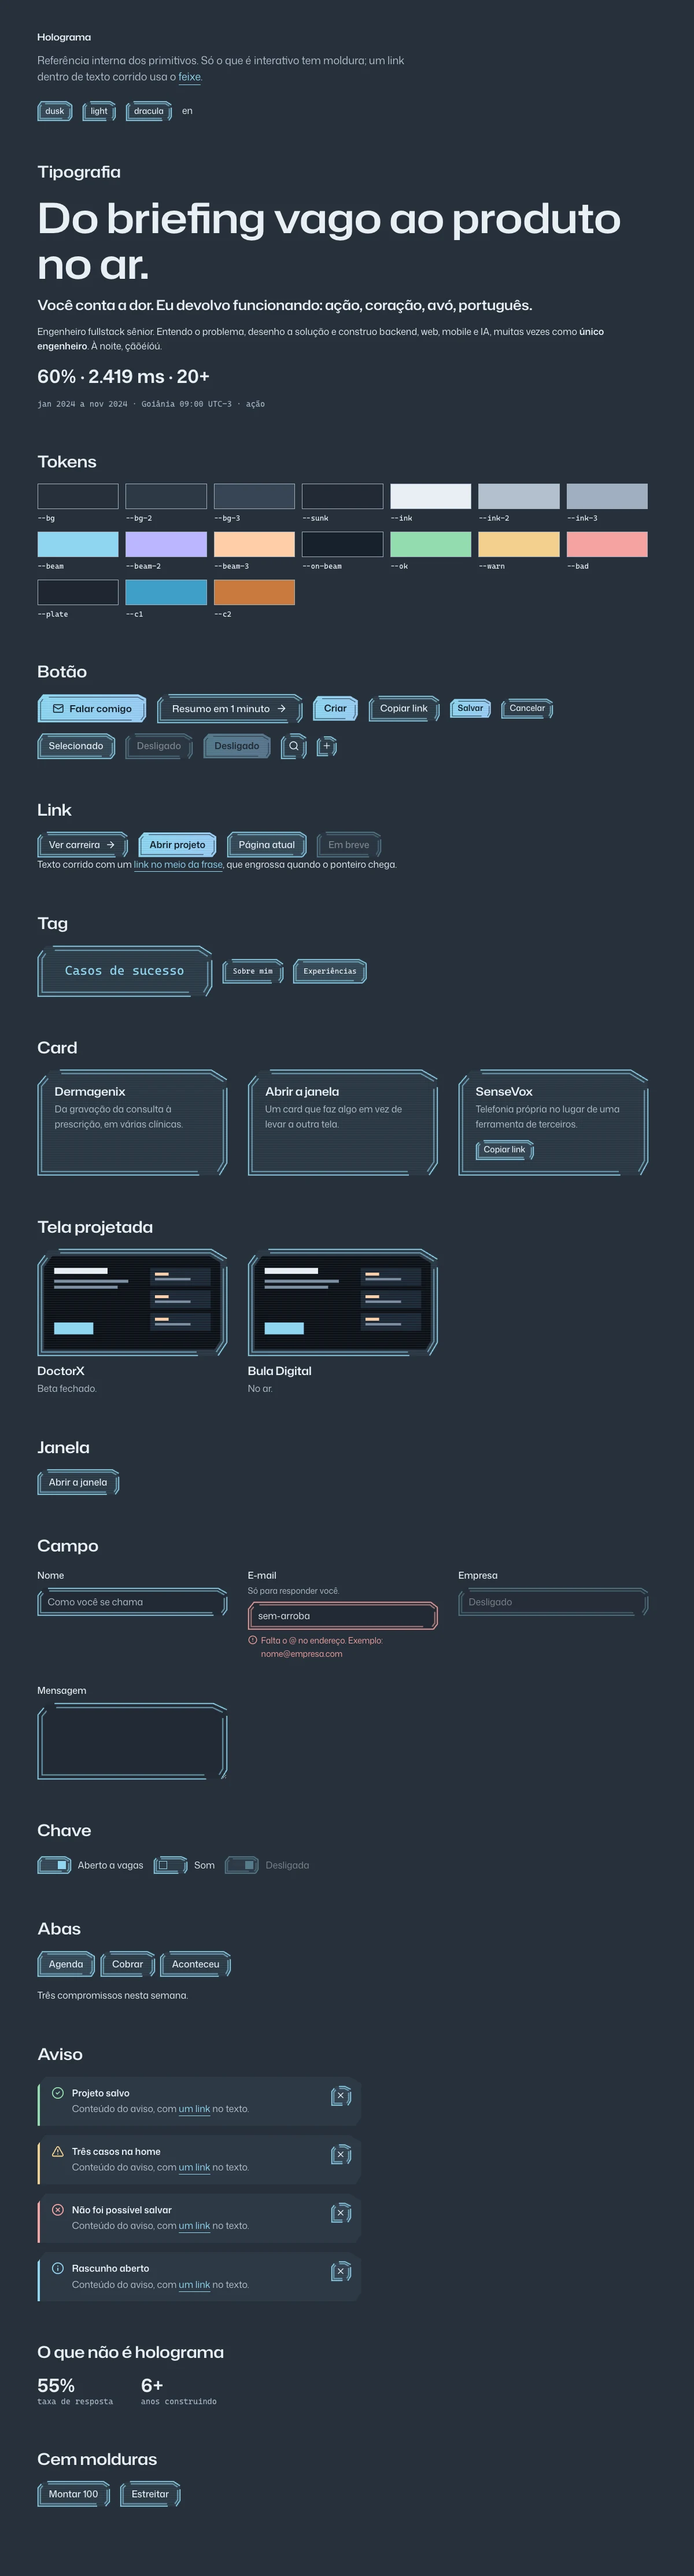
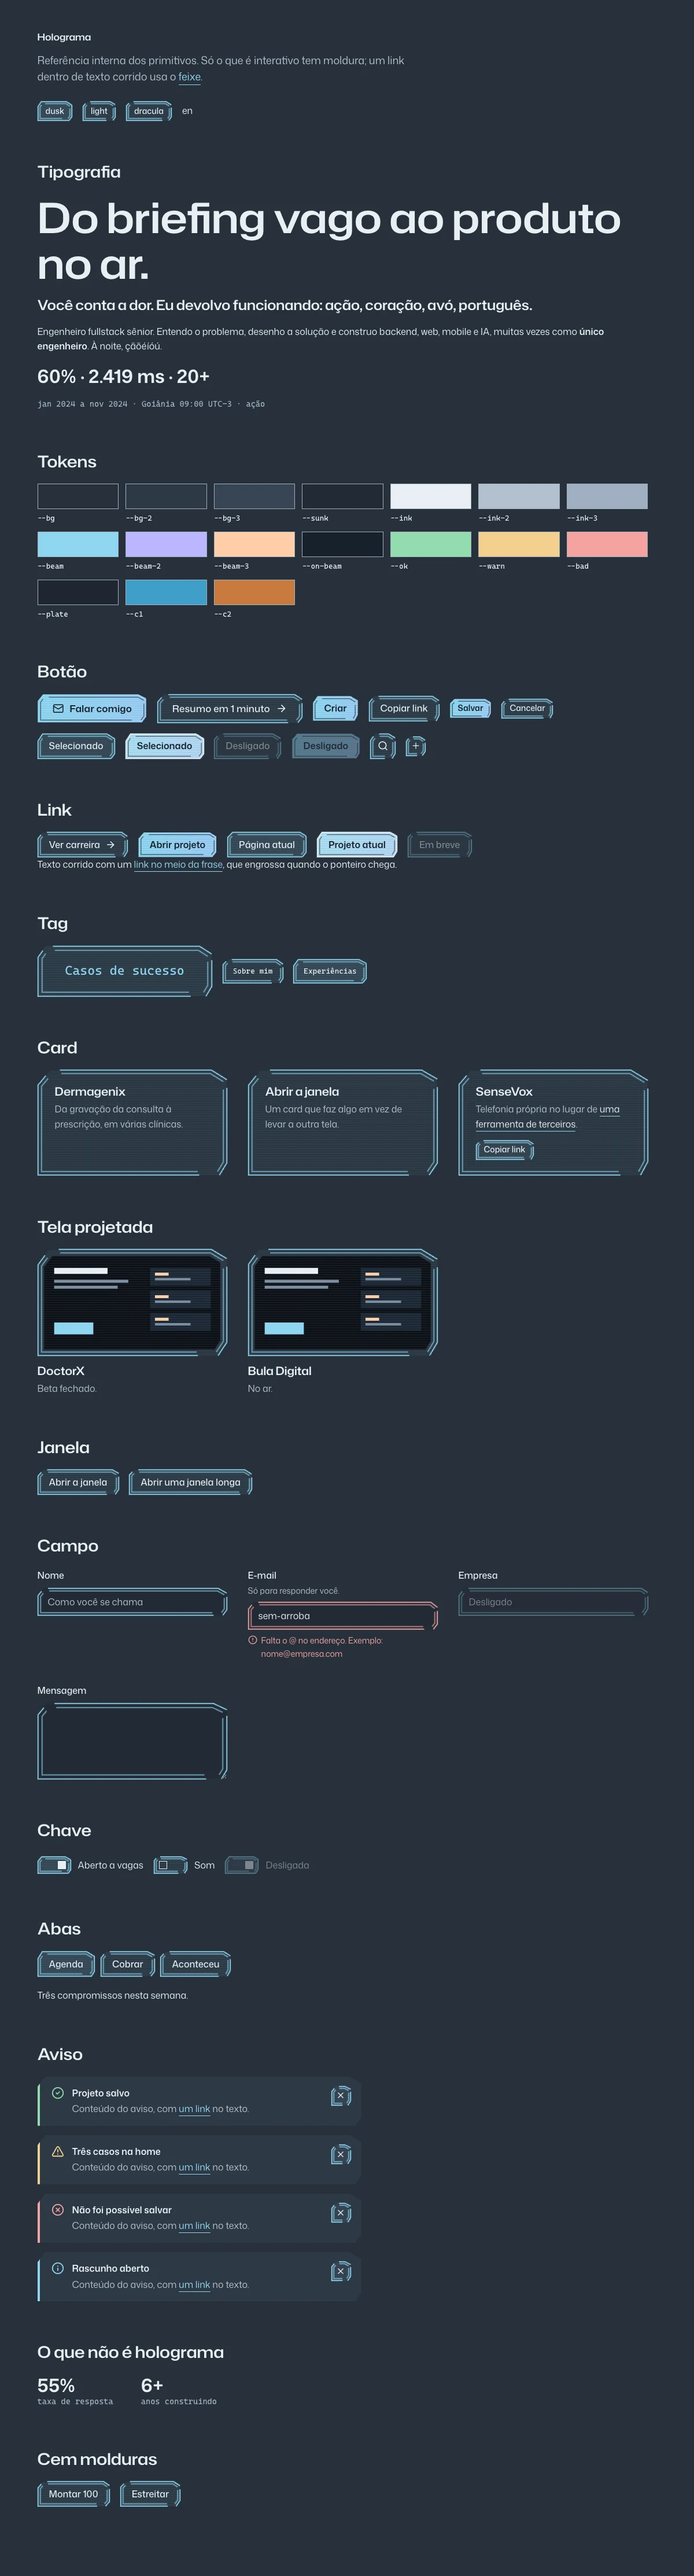
docs: where colours go in a panel, and the captures again

Changed region(s): [[0.185, 0.2809, 0.5858, 0.3434], [0.185, 0.5619, 0.37, 0.5931], [0.5858, 0.2809, 0.6167, 0.3121]]

diff --git a/AGENTS.md b/AGENTS.md
@@ -46,7 +46,8 @@ Built on `docs/design/fundamentos.md` and `docs/design/moldura.md`. Every elemen
 
 - A layout that shows site screens renders `.site-root` with `siteFontVars` (`src/app/site-fonts.ts`), imports `src/app/site.css` and mounts `SiteThemeSync`. Outside `.site-root` the site's tokens do not exist; the CLI version keeps its own, under some of the same names.
 - Theme: `useSiteTheme` / `setSiteTheme` (`src/components/site-theme.tsx`). The inline boot script (`src/lib/theme-boot.ts`) is the only one; add to it, never a second.
-- Colours come from the tokens. `--ink-3`, `--beam`, `--beam-2` and `--bad` are for large bold text, icons and edges on `--bg-3`; text inside a hologram is `--ink` (or `--ink-2` in cards and windows).
+- Colours come from the tokens. `--ink-3`, `--beam`, `--beam-2` and `--bad` are for large bold text, icons and edges on `--bg-3`, so a `BeamLink` or a `HoloField` goes on the other surfaces. Text inside a hologram is `--ink` (or `--ink-2` in cards and windows); `BeamLink` and `HoloField` already switch to it there.
+- Cards go on `--bg` or `--bg-2`, and the tag of a section on `--bg`. A new colour in `holo.module.css` enters `WRITTEN` (`src/lib/theme-audit.ts`) with the places it is read over.
 - Primitives carry no visible string: names such as `closeLabel` come from the dictionaries through props.
 - `/[lang]/holo` shows every primitive and state. It exists in `pnpm dev` and in `HOLO_REFERENCE=1 pnpm build` (`*.dev.tsx`), never in production. A new state or primitive goes there, and `node scripts/e2e-site.mjs --holo` covers it.
 

diff --git a/docs/design/verificacoes.md b/docs/design/verificacoes.md
@@ -57,10 +57,12 @@ O que `scripts/e2e-site.mjs` precisa cobrir ao fim do rebranding. Cada change `r
 37. Cada estado responde em até 100 ms e se distingue dos outros sem a cor do traço.
 38. Com movimento reduzido nada anima, e os estados continuam distinguíveis.
 39. Card parado não tem transform; a tela projetada só se move com o ponteiro ou o foco.
-40. Janela, abas e chave por teclado; todo foco é visível.
-41. Trocar o tema muda tudo sem recarregar e não altera a Versão CLI; trocar de idioma mantém o tema.
+40. Janela, abas e chave por teclado; uma janela mais alta que a tela rola pelo teclado; todo foco é visível.
+41. Trocar o tema muda tudo sem recarregar e não altera a Versão CLI; duas trocas seguidas não deixam erro; trocar de idioma mantém o tema.
 42. Sem JavaScript, o tema segue o sistema e os controles têm contorno.
 43. Fontes atrasadas: texto legível e CLS 0 na troca.
 44. Cem molduras sem tarefa longa, e nada recalculado em repouso.
 45. As retas são nítidas em 1x e 2x.
 46. Sem rolagem horizontal em 390 e 1.440 px, alvos de 44 px no toque e axe sem violação, nos três temas.
+47. Todo holograma responde ao ponteiro, inclusive o campo com erro, e o primário selecionado se distingue do repouso.
+48. Todo texto atinge 4.5:1 e todo ícone 3:1 contra os pixels que estão atrás, na página, no card com a luz e na janela, nos três temas.

diff --git a/docs/design/fundamentos.md b/docs/design/fundamentos.md
@@ -33,7 +33,7 @@ Primeira visita: segue a preferência do sistema (claro ou escuro). O tema é ap
 
 `--c1` e `--c2` são validadas para daltonismo, luminosidade e contraste contra `--bg-2`. Trocar uma exige validar o par de novo.
 
-Contraste mínimo: 4.5:1 para texto sobre a superfície em que ele aparece, 3:1 para borda de controle e para texto a partir de 18 px em negrito. Sobre `--bg-3`, `--ink-3`, `--beam`, `--beam-2` e `--bad` ficam abaixo de 4.5:1 em ao menos um tema: ali servem só para texto a partir de 18 px em negrito, ícone e borda. `scripts/check-contrast.ts` mede os pares.
+Contraste mínimo: 4.5:1 para texto sobre a superfície em que ele aparece, 3:1 para borda de controle e para texto a partir de 18 px em negrito. Sobre `--bg-3`, `--ink-3`, `--beam`, `--beam-2` e `--bad` ficam abaixo de 4.5:1 em ao menos um tema: ali servem só para texto a partir de 18 px em negrito, ícone e borda. Dentro de card e janela, texto é `--ink` ou `--ink-2`: sobre o preenchimento com luz, nenhuma outra cor atinge 4.5:1 nos três temas. Ali o link é `--ink` com o sublinhado em `--beam`, e a mensagem de erro é `--ink` com o ícone em `--bad`. Um card fica sobre `--bg` ou `--bg-2`. `scripts/check-contrast.ts` mede os pares.
 
 ## Tipografia
 
